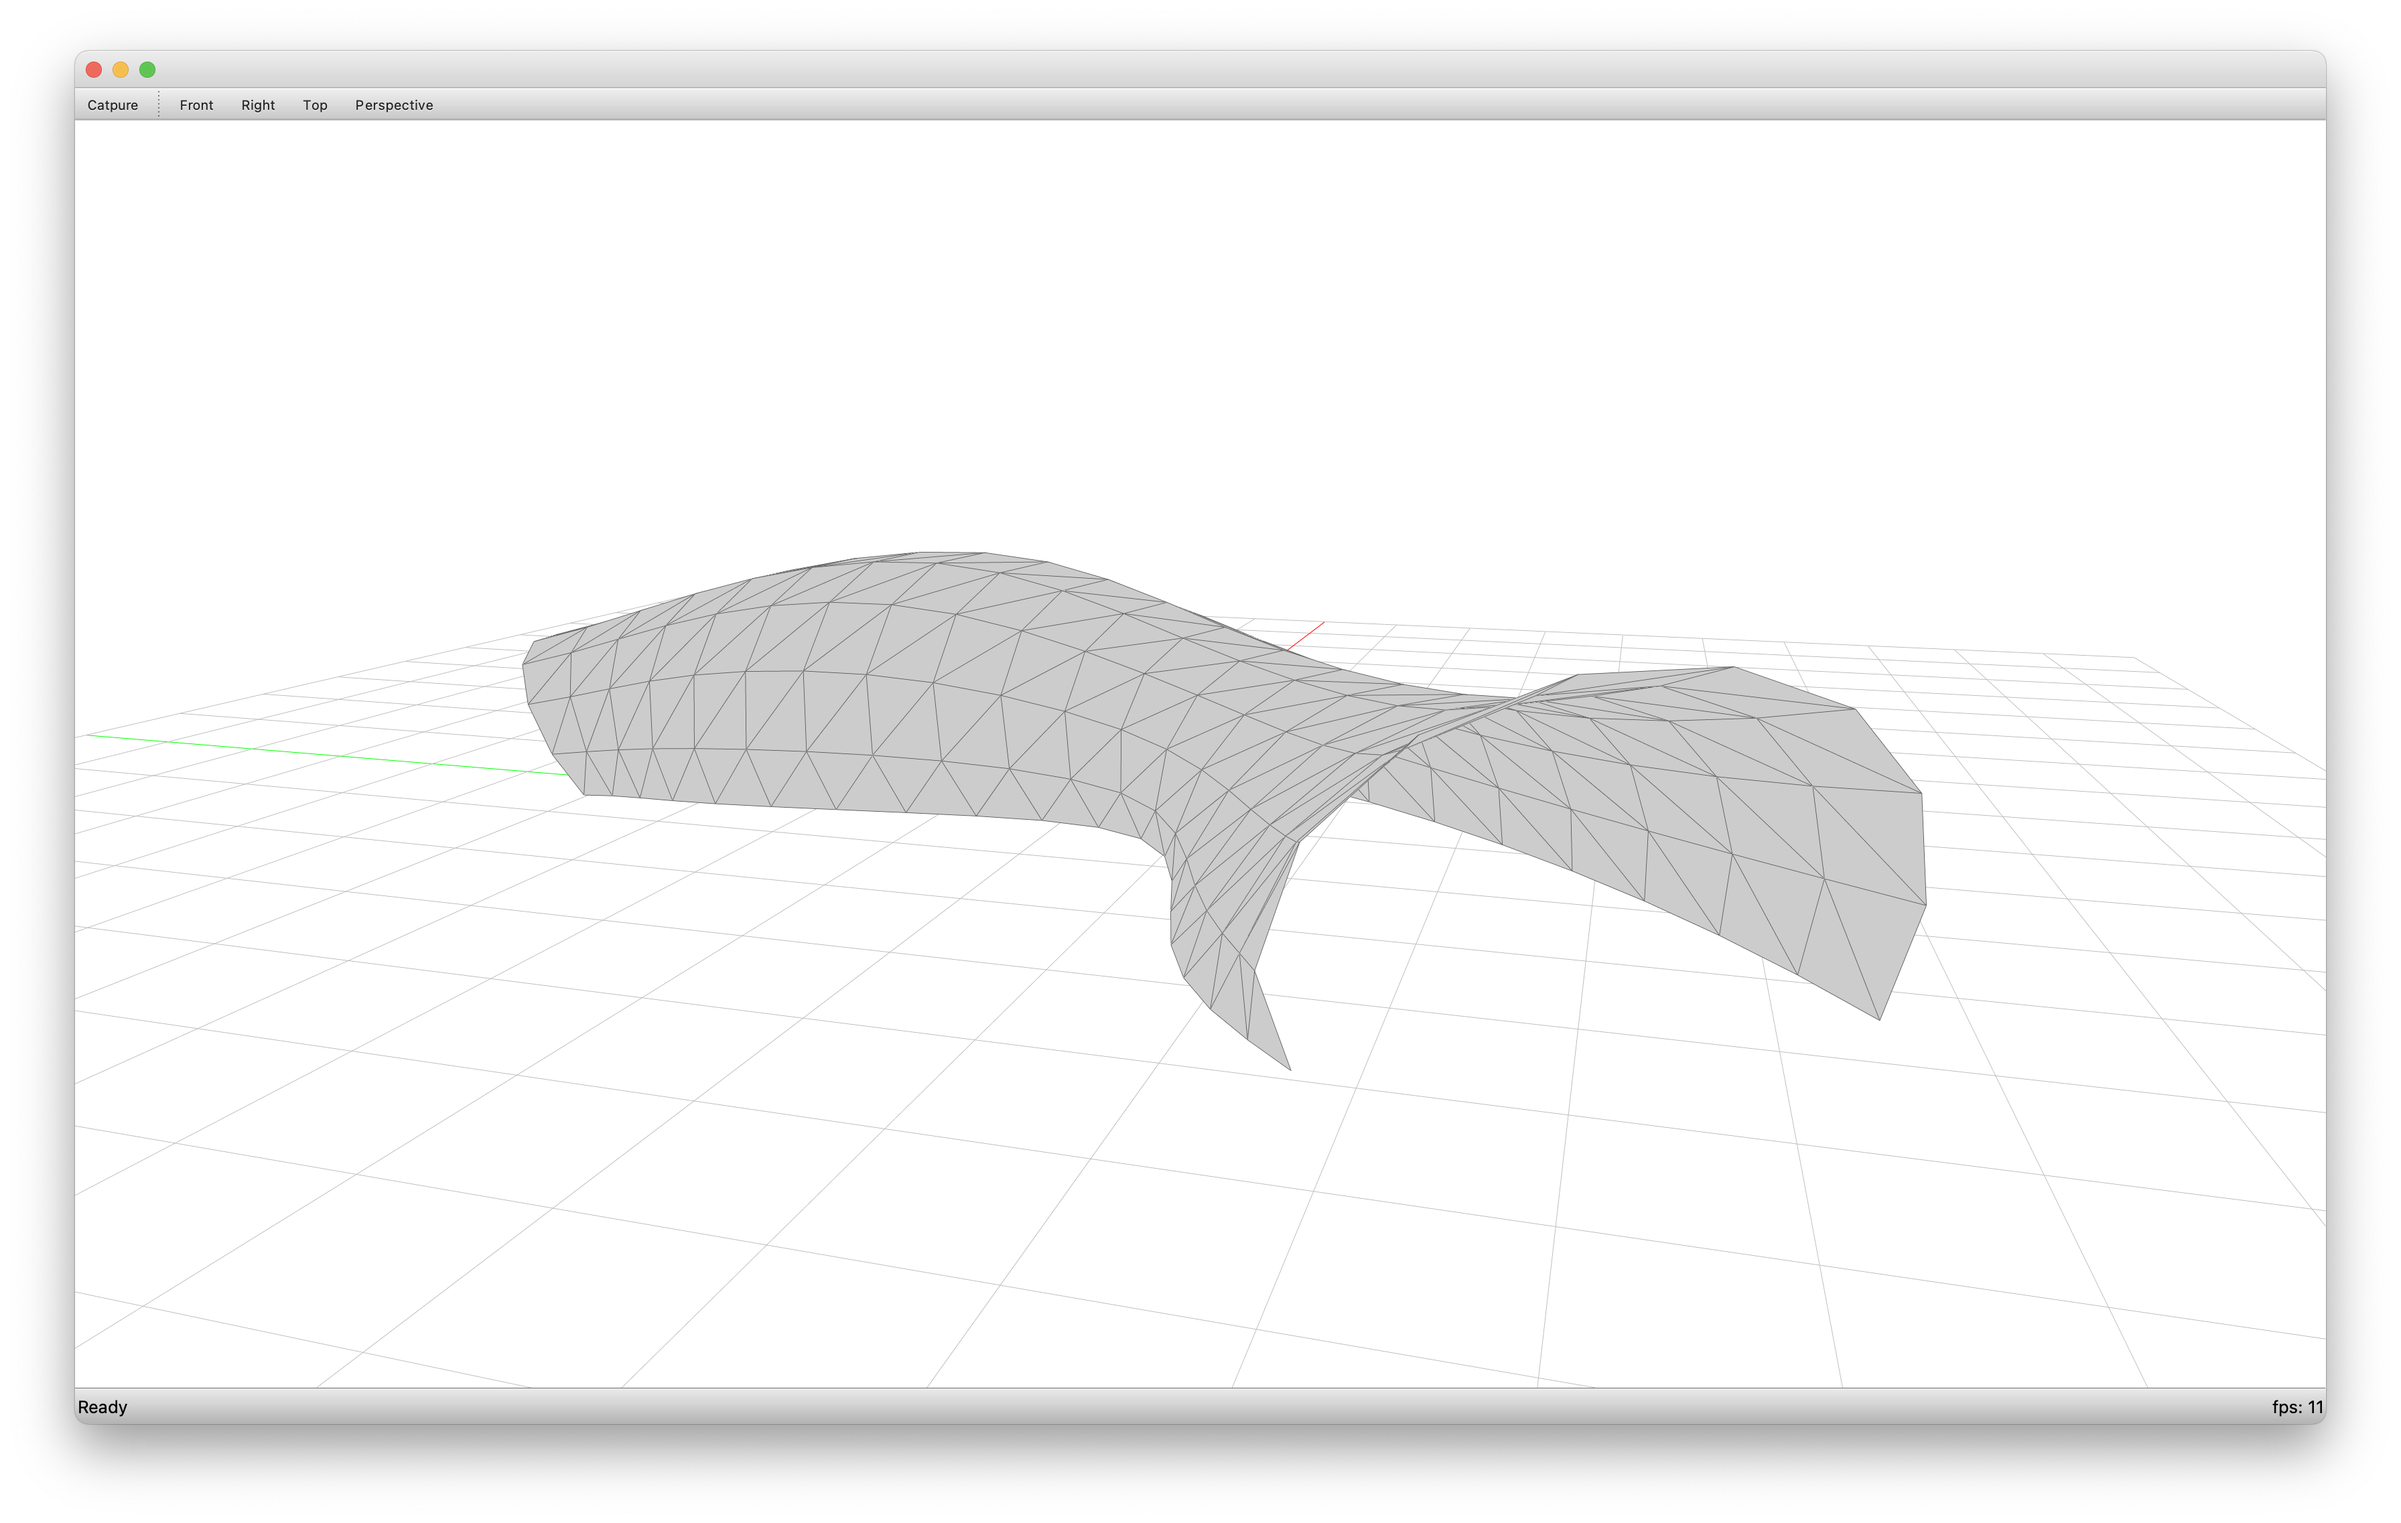
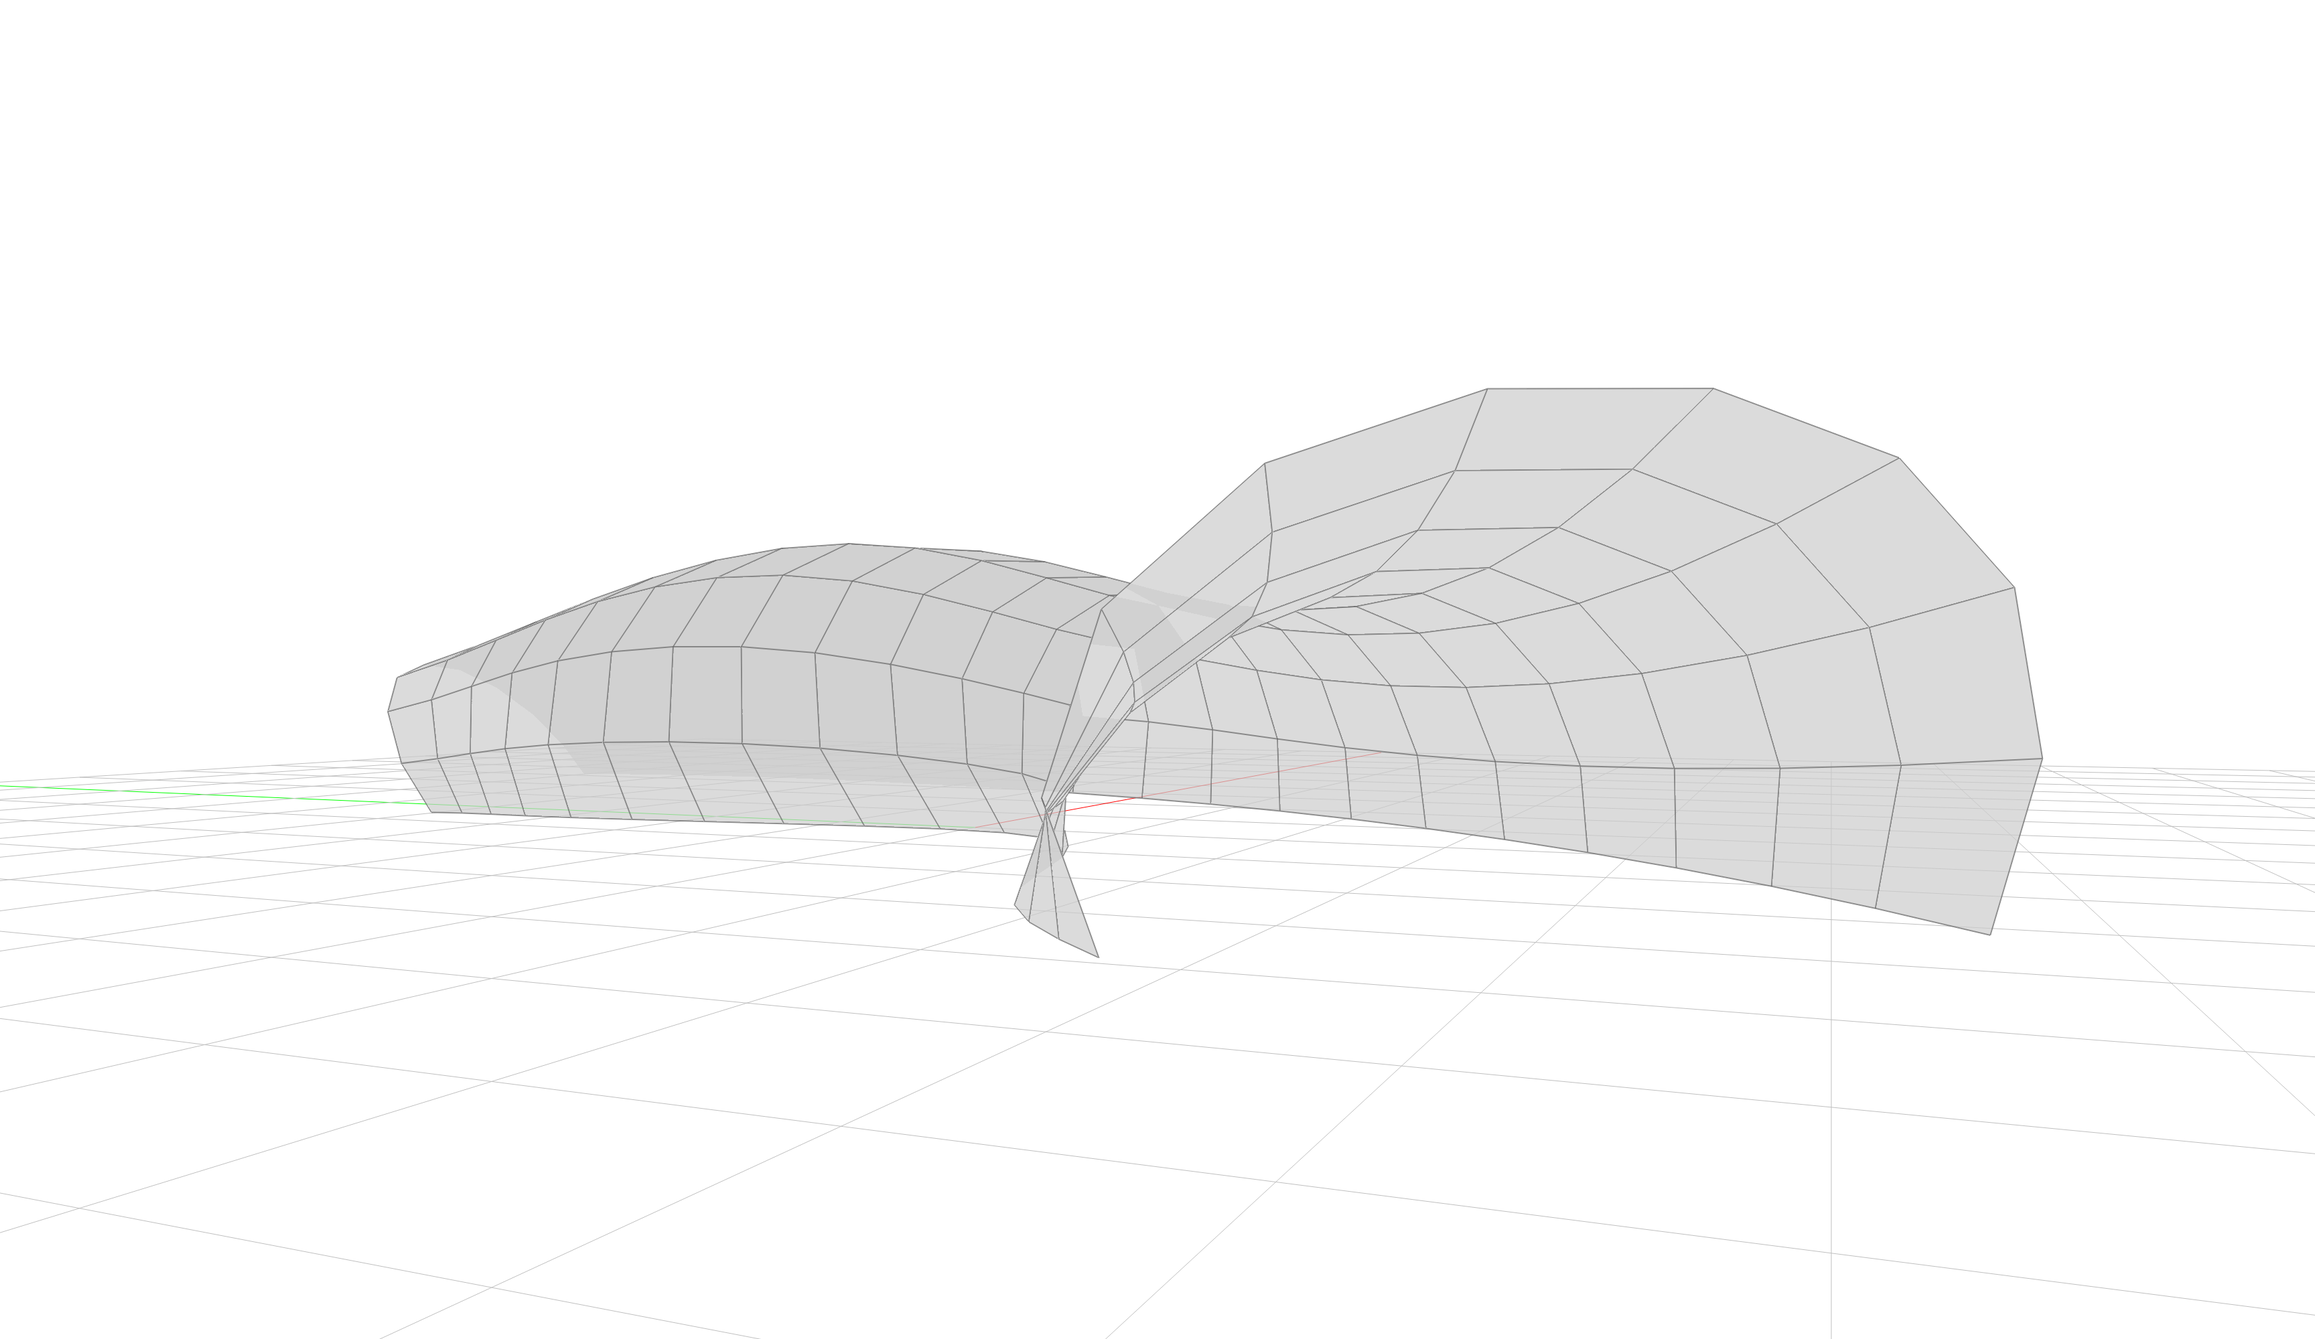
updated examples

Changed region(s): [[0.0, 0.031, 1.0, 0.961]]

diff --git a/docs/examples/brep_explorer.py b/docs/examples/brep_explorer.py
@@ -11,17 +11,12 @@ A = Brep.from_box(box)
 vertex = A.vertices[0]
 
 vertices = A.vertex_neighbors(vertex)
-print(len(vertices))
-
 edges = A.vertex_edges(vertex)
-print(len(edges))
-
 faces = A.vertex_faces(vertex)
-print(len(faces))
 
 viewer = App()
-
-viewer.add(A, linewidth=2, linecolor=Color(0.2, 0.2, 0.2))
+viewer.view.camera.position = [2, -4, 1]
+viewer.view.camera.look_at([0, 0, 0])
 
 viewer.add(vertex.point, pointcolor=Color.red(), pointsize=20)
 
@@ -31,9 +26,10 @@ for vertex in vertices:
 for edge in edges:
     viewer.add(edge.to_line(), linewidth=5, linecolor=Color(0.2, 0.2, 0.2))
 
-# for face in faces:
-#     brep = Brep.from_brepfaces()
-#     brep.occ_shape = face.occ_face
-#     viewer.add(brep.to_viewmesh()[0], show_lines=False, opacity=0.5)
+for face in faces:
+    brep = Brep.from_brepfaces([face])
+    viewer.add(brep, opacity=0.5)
+
+viewer.add(A, linewidth=2, linecolor=Color(0.2, 0.2, 0.2), show_faces=False)
 
 viewer.show()

diff --git a/docs/examples/brep_overlap.py b/docs/examples/brep_overlap.py
@@ -16,6 +16,8 @@ B = Brep.from_box(box)
 FA, FB = A.overlap(B)
 
 viewer = App()
+viewer.view.camera.position = [3, -3, 1]
+viewer.view.camera.look_at([-1, 2, 0])
 
 viewer.add(A, opacity=0.5, linewidth=3)
 viewer.add(B, opacity=0.5, linewidth=3)

diff --git a/docs/examples/brep_from_mesh.py b/docs/examples/brep_from_mesh.py
@@ -31,6 +31,9 @@ brep = Brep.from_mesh(mesh)
 # visualize
 
 viewer = App(viewmode="ghosted")
+viewer.view.camera.position = [-9, -5, 1]
+viewer.view.camera.look_at([3, 0, 1])
+
 viewer.add(brep, linewidth=2)
 
 viewer.run()

diff --git a/docs/examples/brep_overlap.rst b/docs/examples/brep_overlap.rst
@@ -1,0 +1,11 @@
+********************************************************************************
+Find the Overlap Between Two Breps
+********************************************************************************
+
+.. figure:: /_images/example_brep_overlap.png
+    :figclass: figure
+    :class: figure-img img-fluid
+
+
+.. literalinclude:: brep_overlap.py
+    :language: python

diff --git a/docs/examples/brep_explorer.rst b/docs/examples/brep_explorer.rst
@@ -1,0 +1,11 @@
+********************************************************************************
+Explore Brep Topology
+********************************************************************************
+
+.. figure:: /_images/example_brep_explorer.png
+    :figclass: figure
+    :class: figure-img img-fluid
+
+
+.. literalinclude:: brep_explorer.py
+    :language: python
